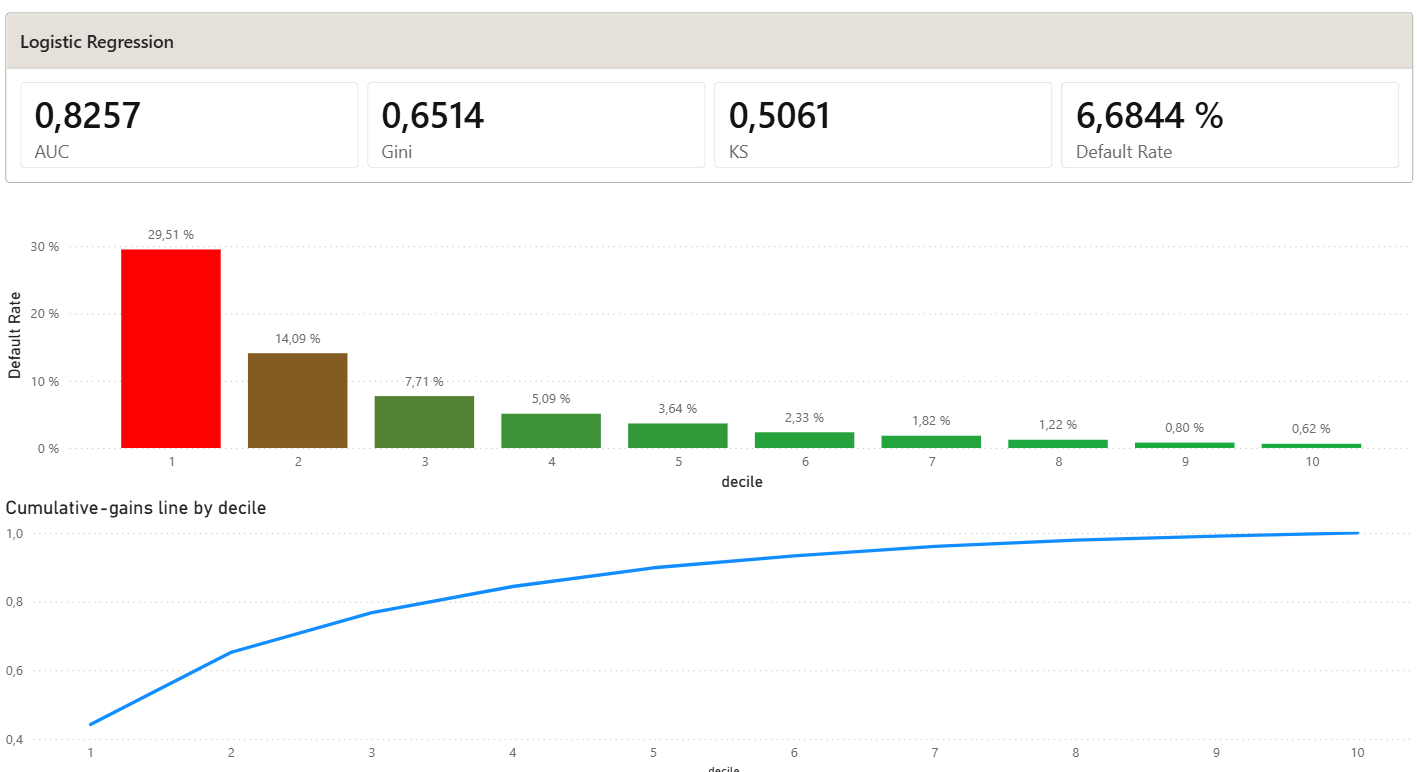
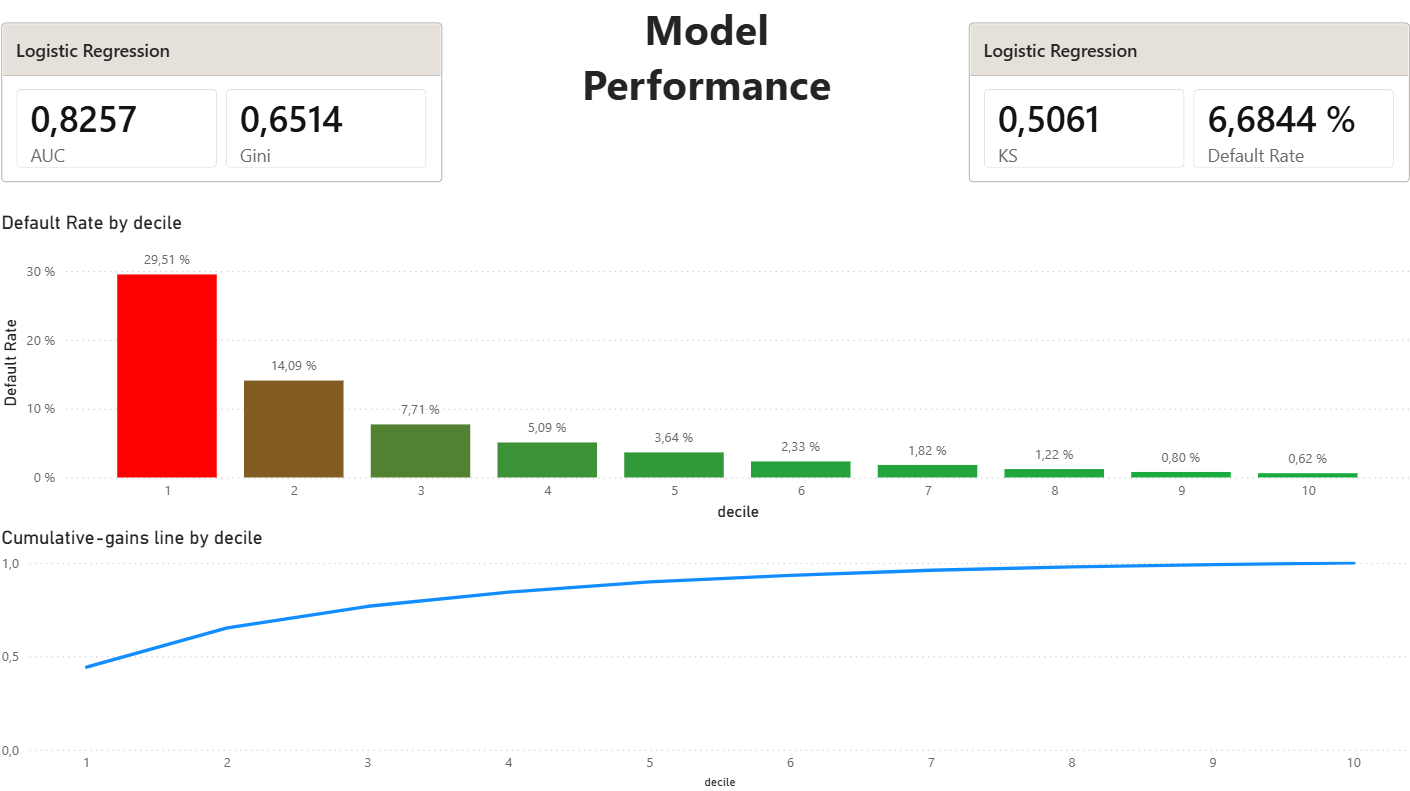
add title to Power BI pages

diff --git a/README.md b/README.md
@@ -167,15 +167,6 @@ The Power BI file (`.pbix`) is excluded from the repository (large binary); the 
 
 ---
 
-## Next steps
-
-- **SHAP values** for model-agnostic interpretation of the XGBoost challenger.
-- **Probability calibration** (calibration curves, Hosmer–Lemeshow) — discrimination is validated here; calibration of the PD *levels* is the natural complement.
-- **LGD and EAD modelling** in a follow-up project, enabling full **Expected Credit Loss** (ECL = PD × LGD × EAD) estimation.
-- **Out-of-time validation** to assess stability and drift on a later period.
-
----
-
 ## Data source & disclaimer
 
 Data: Kaggle [*Give Me Some Credit*](https://www.kaggle.com/c/GiveMeSomeCredit) competition (synthetic/anonymised consumer credit data). This project is for portfolio and educational purposes and does not constitute a deployed credit decisioning system.